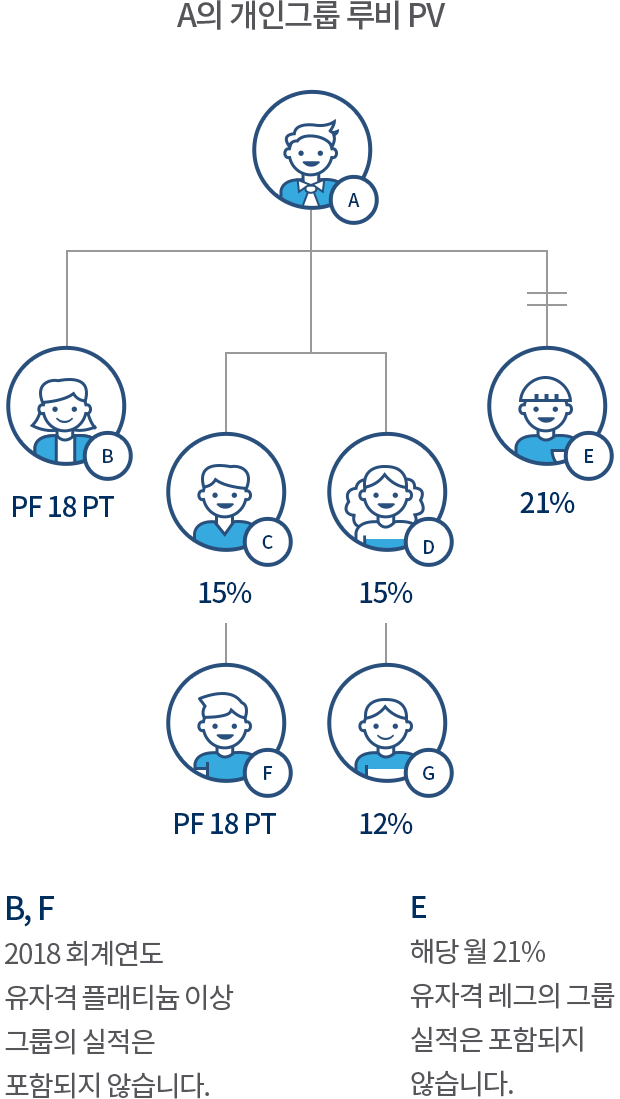
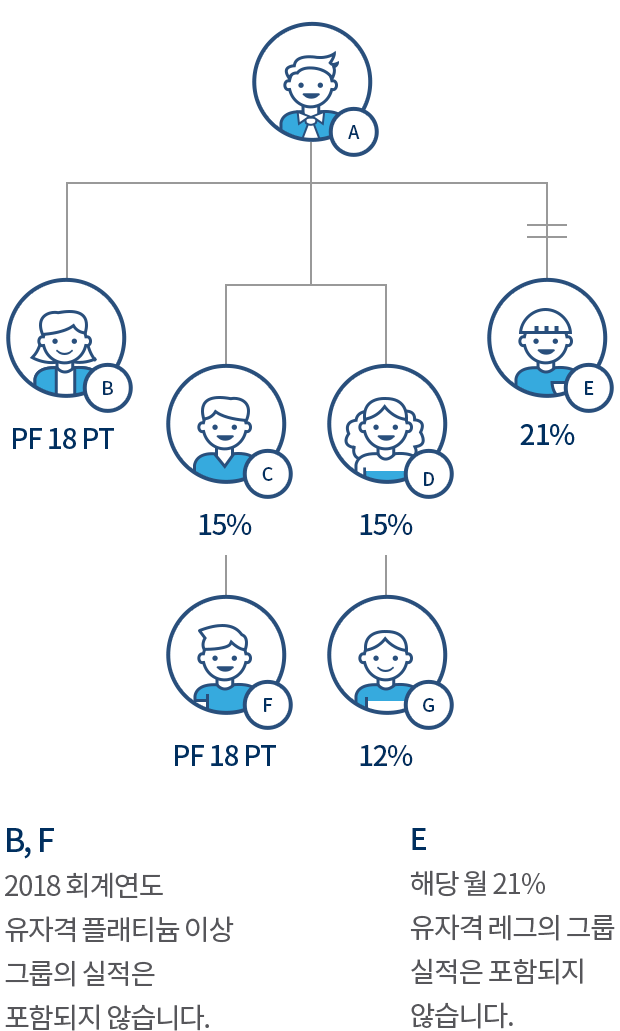
사업가이드 작업중

diff --git a/_ui/responsive/html/business/G20730_005.html b/_ui/responsive/html/business/G20730_005.html
@@ -200,7 +200,7 @@
 								<dt>Personal Q 유자격 월이란?</dt>
 								<dd>
 									<p>아래 4가지 조건 중 하나 이상을 만족한 월은 Personal Q 유자격월에 해당합니다.</p>
-									<div class="box-diagram-perq">
+									<div class="box-diagram-perq type02">
 										<ol>
 											<li>
 												<p class="hidden">조건1 : 개인그룹 Personal Q 실적 1,000만 PV 이상 or</p>
@@ -225,23 +225,27 @@
 								<dd>
 									<p>21% 유자격 레그의 그룹 실적과 2018 회계연도 유자격 플래티늄 이상의 그룹 실적을 제외한 본인의 개인그룹 PV를 의미합니다.</p>
 									<div class="box-diagram-perq">
-										<strong>[A의 개인그룹 Personal Q 실적]</strong>
-										<ol>
-											<li>
-												<ul class="hidden">
-													 <li>A
-														 <ul>
-															 <li>B : PF 18 PT : 2018 회계연도 유자격 플래티늄 이상 그룹의 실적은 포함되지 않습니다. </li>
-															 <li>C : 15%</li>
-															 <li>D : 15%</li>
-															 <li>E : 21% 2018 회계연도 유자격 플래티늄 이상 그룹의 실적은 포함되지 않습니다.</li>
-															 <li>F : 2018 회계연도 유자격 플래티늄 이상 그룹의 실적은 포함되지 않습니다. </li>
-															 <li>G : 12%</li>
-														 </ul>
-													</li>
-												</ul>
-											</li>
-										</ol>
+										<h3>[A의 개인그룹 Personal Q 실적]</h3>
+										<div class="pc"><img src="/_ui/responsive/theme-blue/images/akl_common/business/img_gn02.png" alt="[A의 개인그룹 Personal Q 실적]"></div>
+					                	<div class="mob"><img src="/_ui/responsive/theme-blue/images/akl_common/business/img_gn02_mob.png" alt="[A의 개인그룹 Personal Q 실적]"></div>
+					                	<div class="hidden">
+					                		<ol>
+												<li>
+													<ul class="hidden">
+														 <li>A
+															 <ul>
+																 <li>B : PF 18 PT : 2018 회계연도 유자격 플래티늄 이상 그룹의 실적은 포함되지 않습니다. </li>
+																 <li>C : 15%</li>
+																 <li>D : 15%</li>
+																 <li>E : 21% 2018 회계연도 유자격 플래티늄 이상 그룹의 실적은 포함되지 않습니다.</li>
+																 <li>F : 2018 회계연도 유자격 플래티늄 이상 그룹의 실적은 포함되지 않습니다. </li>
+																 <li>G : 12%</li>
+															 </ul>
+														</li>
+													</ul>
+												</li>
+											</ol>
+					                	</div>
 									</div>
 								</dd>
 							</dl>
@@ -254,8 +258,8 @@
 										<li> 회계연도 내 본인이 국내에서 직접 또는 대리로 후원하는 월별 21% 유자격 레그 수의 연간 총합을 의미합니다.
 										<li>연간 Q-Leg Month 수 : 우측 예의 경우, 국내에서 직접 후원하는 21% 이며, 자격 레그 수가 6월 : 1개, 7월 : 2개, 8월 : 3개이므로  연간 Q-Leg Month수는 총 6개입니다.</li>
 									</ul>
-									<div class="box-diagram-perq">
-										<strong>월별 21% 유자격 레그</strong>
+									<div class="box-diagram-perq type02">
+										<h3>월별 21% 유자격 레그</h3>
 										<ol>
 											<li>
 												<p class="hidden">9월 ~5월: 0개</p>
@@ -283,52 +287,62 @@
 										<ol class="case-list01">
 											<li>
 												<strong>사례 A</strong>
-												<p class="hidden">
-													PersonalQ 12 2018 회계연도 Q x 5 개 →
-													PersonalQ 12 2019 회계연도 Q x 5 개:
-													연간 Q-Leg Month 유지
-												</p>
-												<span>기본 보너스700 만원</span>
+												<div>
+													<p class="hidden">
+														PersonalQ 12 2018 회계연도 Q x 5 개 →
+														PersonalQ 12 2019 회계연도 Q x 5 개:
+														연간 Q-Leg Month 유지
+													</p>
+													<span>기본 보너스700 만원</span>
+												</div>
 												<p>2019 회계연도 마감 기준 Personal Q 유자격 월수가 12개이고, 연간 Q-leg Month 수는 전년 수준을 유지하였으므로 700만원을 받습니다.</p>
 											</li>
 											<li>
 												<strong>사례 B</strong>
-												<p class="hidden">
-													PersonalQ 11 2018 회계연도 Q x 0 개 →
-													PersonalQ 12 2019 회계연도 Q x 3 개:
-													연간 Q-Leg Month 3개 증가
-												</p>
-												<span>기본 보너스700 만원, 추가성장  보너스700 만원 : 총 1,600만원 </span>
+												<div>
+													<p class="hidden">
+														PersonalQ 11 2018 회계연도 Q x 0 개 →
+														PersonalQ 12 2019 회계연도 Q x 3 개:
+														연간 Q-Leg Month 3개 증가
+													</p>
+													<span>기본 보너스700 만원, 추가성장  보너스700 만원 : 총 1,600만원 </span>
+												</div>
 												<p>2019 회계연도 마감 기준 Personal Q 유자격 월수가 12개이고, 연간 Q-leg Month 수는 전년 대비 3개 증가하였으므로, 기본보너스 700만원과 추가 성장 보너스 900만원을 받습니다.</p>
 											</li>
 											<li>
 												<strong>사례 C</strong>
-												<p class="hidden">
-													PersonalQ 12 2018 회계연도 Q x 0 개 →
-													PersonalQ 11 2019 회계연도 Q x 3 개:
-													연간 Q-Leg Month 3개 증가
-												</p>
-												<span>미수혜</span>
+												<div>
+													<p class="hidden">
+														PersonalQ 12 2018 회계연도 Q x 0 개 →
+														PersonalQ 11 2019 회계연도 Q x 3 개:
+														연간 Q-Leg Month 3개 증가
+													</p>
+													<span>미수혜</span>
+												</div>
 												<p>연간 Q-leg Month 수는 전년 대비 3개 증가하였으나, 2019 회계연도 마감 기준 Personal Q 유자격 월수가 11개이므로 보너스 대상자가 아닙니다.</p>
 											</li>
 											<li>
 												<strong>사례 D</strong>
-												<p class="hidden">
-													PersonalQ 12 2018 회계연도 Q x 5 개 →
-													PersonalQ 12 2019 회계연도 Q x 4 개:
-													연간 Q-Leg Month 3개 증가
-												</p>
-												<span>미수혜</span>
+												<div>
+													<p class="hidden">
+														PersonalQ 12 2018 회계연도 Q x 5 개 →
+														PersonalQ 12 2019 회계연도 Q x 4 개:
+														연간 Q-Leg Month 3개 증가
+													</p>
+													<span>미수혜</span>
+												</div>
 												<p>2019 회계연도 마감 기준 마감 기준 Personal Q 유자격 월수가 12개이나, Personal Q 유자격 월 수가 증가하지 않고 연간 Q-leg Month 수는 전년 대비 1개 감소하였으므로, 수혜대상자에서 제외됩니다.</p>
 											</li>
 											<li>
 												<strong>사례 ES</strong>
-												<p class="hidden">
-													PersonalQ 11 2018 회계연도 Q x 5 개 →
-													PersonalQ 12 2019 회계연도 Q x 4 개:
-													연간 Q-Leg Month 1개 감소
-												</p>
-												<span>기본 보너스700 만원</span>
+												<div>
+													<p class="hidden">
+														PersonalQ 11 2018 회계연도 Q x 5 개 →
+														PersonalQ 12 2019 회계연도 Q x 4 개:
+														연간 Q-Leg Month 1개 감소
+													</p>
+													<span>기본 보너스700 만원</span>
+												</div>
 												<p>2019 회계연도 마감 기준 Personal Q 유자격 월수가 12개이고, 연간 Q-leg Month 수는 전년 대비 1개 감소하였으나 Personal Q 유자격 월 수가 증가하였기 때문에 700만원을 받습니다.</p>
 											</li>
 										</ol>

diff --git a/_ui/responsive/theme-blue/css/akl-business.css b/_ui/responsive/theme-blue/css/akl-business.css
@@ -823,6 +823,9 @@ ul.woo-step-box li:last-child:before {background:none}
 .akl .gn-box .txt-talk .txt:after {background-position:-71px -73px; margin-left:5px}
 .akl .gn-box .txt-talk + h3 {margin-top:38px}
 .akl .gn-box02 {margin-top:20px; padding:40px; text-align:center; background-color:#f4f4f4}
+.akl .gn-box02 h3{ font-size:16px; }
+.akl .amway-theme .business-guide-wrap .gn-box02 h3 {font-size: 16px;margin: 0 0 35px;}
+
 .akl .etc-detail li {margin:20px 0 0 15px}
 .akl .etc-detail li em {font-weight:500}
 .akl .etc-detail li em + p {margin-top:5px}
@@ -834,12 +837,13 @@ ul.woo-step-box li:last-child:before {background:none}
 .bizNumList li .box-diagram { margin-top:10px; text-indent:0;}
 .akl .gn-box .tblList02 + .tblList02 thead tr {border-top: 0}
 .akl .gn-box .tblList02.Ruby tbody tr > * { padding: 10px 10px; background: #f4f4f4; color: #002f5f; font-weight: 500;}
-.box-diagram-perq { padding: 40px 20px; background: #f4f4f4; }
+.box-diagram-perq { padding: 40px 20px; background: #f4f4f4; text-align: center; }
 .personalq-list { margin-top:10px}
 .personalq-list li { padding-left:15px; }
 .personalq-list dt{ margin-bottom:3px}
 .personalq-list dd{ padding-left:15px; }
 .personalq-list .box-diagram-perq { margin:16px 0 20px}
+.akl .amway-theme .business-guide-wrap .box-diagram-perq h3 {font-size: 16px;margin: 0 0 35px;}
 .personalq-list .gn-box{ margin:16px 0 20px}
 .tblList02 th p { padding-left:48px; height:53px; line-height:53px; font-weight:500; color:#002f5f; position:relative; display: inline-block; }
 .tblList02 th [class*="iconcase"]:before { content:"";  display:block; position:absolute; left:0; top:0; width:40px; height:53px; background:url('/_ui/responsive/theme-blue/images/akl_common/business/img_nca06_mob.png') 0 3px no-repeat; background-size:40px auto }
@@ -1233,7 +1237,7 @@ ul.woo-step-box li:last-child:before {background:none}
 	.akl .gn-box {padding:20px}
 	.akl .gn-box .tblList02 .won .name {display:block; margin-right:5px}
 	.akl .gn-box .tblList02 tbody tr > * {padding:10px 2px}
-	.akl .gn-box .mob img, .akl .gn-box02 .mob img {width:100%}
+	.akl .gn-box .mob img, .akl .gn-box02 .mob img {width:100%; max-width:310px}
 	.akl .gn-box02 {padding:20px}
 	.akl .gn-box img, .akl .gn-box02 img {max-width:310px;}
 	.akl .etc-detail .gn-box02 {padding:30px 10px}
@@ -1287,6 +1291,7 @@ ul.woo-step-box li:last-child:before {background:none}
 	.case-list02 li [class*="imgcase01-04"] {background-position: center -335px }
 	.case-list02 li [class*="imgcase01-05"] {background-position: center -454px }
 
+	.akl .box-diagram-perq .mob img, .akl .box-diagram-perq .mob img {width:100%; max-width:310px}
 
 	/* 뉴핀 성취자 */
 	.cuton-sel.type02 select {width:100%}

diff --git a/_ui/responsive/html/business/G20730_003.html b/_ui/responsive/html/business/G20730_003.html
@@ -148,18 +148,31 @@
 				</section>
 
 				<section>
-					<h2>개인 그룹 루비 PV란?</h2>
 					<div class="gn-box02">
+						<h3>개인 그룹 루비 PV란?</h3>
 	                	<div class="pc"><img src="/_ui/responsive/theme-blue/images/akl_common/business/img_gn02.png" alt="A의 개인그룹 루비  PV"></div>
 	                	<div class="mob"><img src="/_ui/responsive/theme-blue/images/akl_common/business/img_gn02_mob.png" alt="A의 개인그룹 루비  PV"></div>
 	                	<div class="hidden">
-	                		<p>B,F : 2018회계연도 유자격 플래티늄 이상 그룹의 실적은 포함되지 않습니다.</p>
-	                		<p>E : 해당 월 21% 유자격 레그의 그룹 실적은 포함되지 않습니다.</p>
-	                		<p>A , B(PF18PT), C(15%), D(15%), E(21%), F(PF18PT), G(12%)</p>
+	                		<ol>
+								<li>
+									<ul class="hidden">
+										 <li>A
+											 <ul>
+												 <li>B : PF 18 PT : 2018 회계연도 유자격 플래티늄 이상 그룹의 실적은 포함되지 않습니다. </li>
+												 <li>C : 15%</li>
+												 <li>D : 15%</li>
+												 <li>E : 21% 2018 회계연도 유자격 플래티늄 이상 그룹의 실적은 포함되지 않습니다.</li>
+												 <li>F : 2018 회계연도 유자격 플래티늄 이상 그룹의 실적은 포함되지 않습니다. </li>
+												 <li>G : 12%</li>
+											 </ul>
+										</li>
+									</ul>
+								</li>
+							</ol>
 	                	</div>
 		            </div>
 				</section>
-				
+
 				<section>
 					<h2>4. 루비 플러스 보너스 계산의 예</h2>
 					<div class="gn-box">
